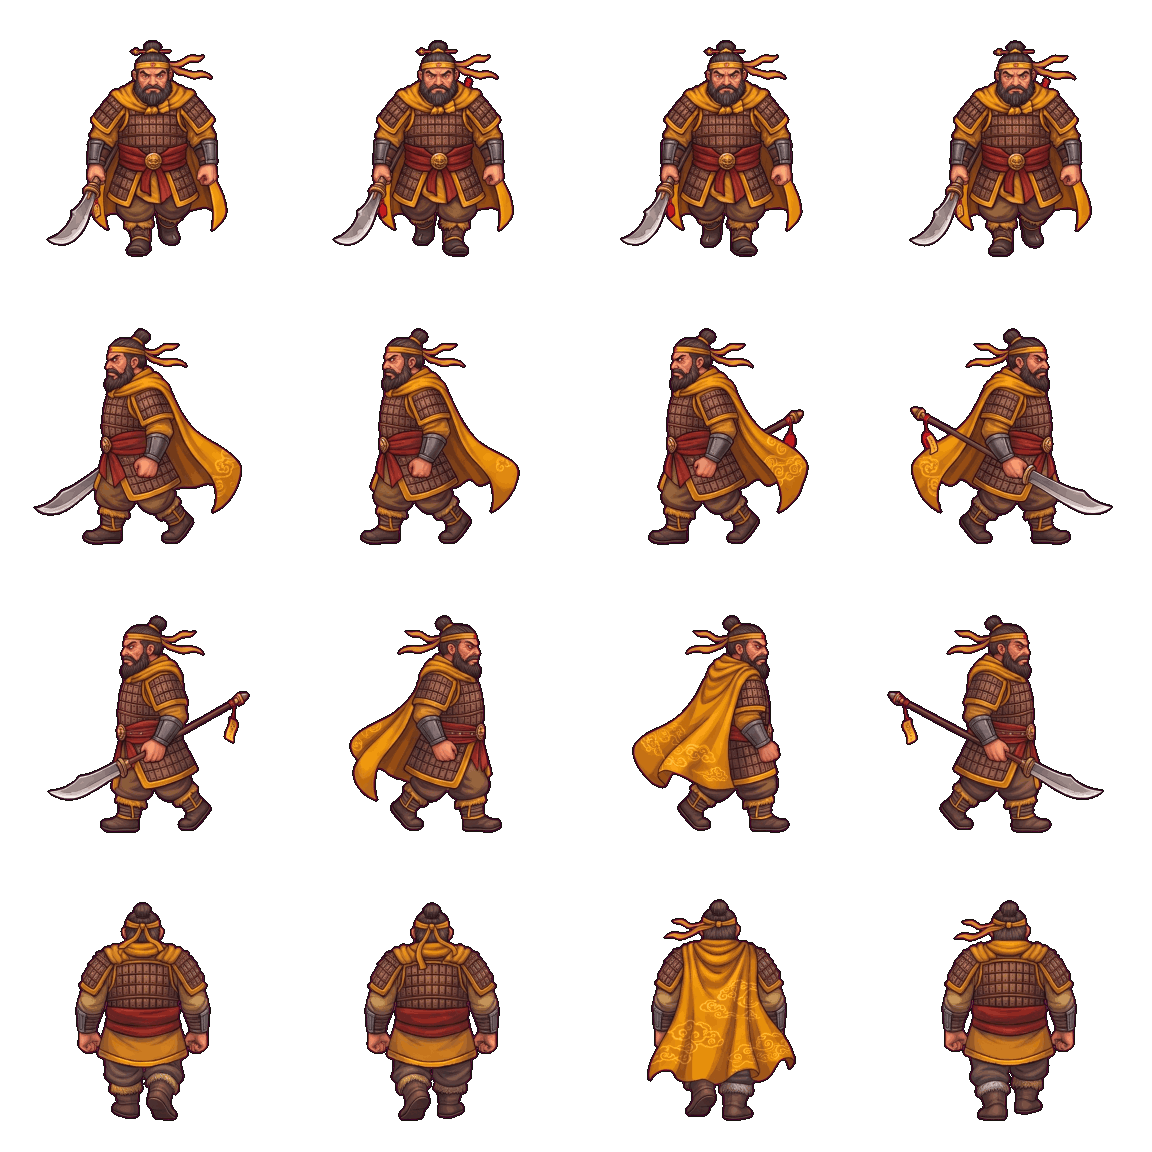
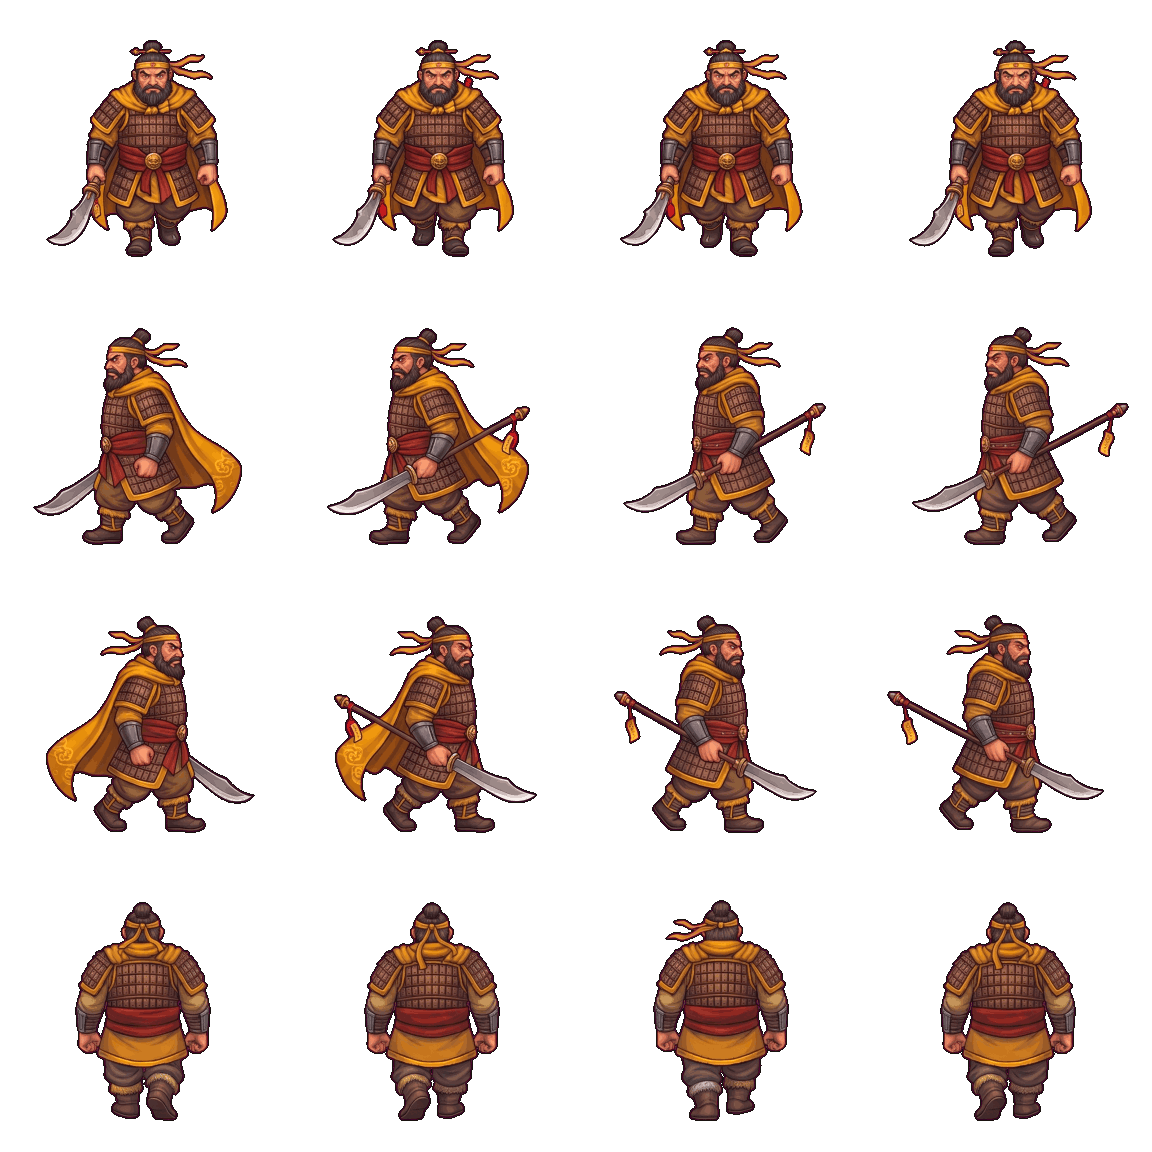
1-1 张梁：行走表左右行逐帧朝向乱翻 / 兵器时有时无 → 重排成一致的持刀走姿；冲锋不再定格平移；出招帧与命中对上
用户 11-19「张梁移动和动作有问题」。慢放实测（tools/gif-zhangliang.mjs）：
- 行走表（Gemini 086accd）左行第 4 帧朝右、右行第 1 帧朝左，中间两帧空手——侧走时每步转身、刀一闪一闪。
  现用表里四张持刀侧身帧（左 0、右 0 + 左 3 / 右 3 镜像）重排：左行 [左0, 镜像左3, 右0, 镜像右3]，右行为其镜像；背面行第 3 帧（唯一披风全展）换掉。
  原图留 originals/yellow_zhangliang_walk_sideflip_old.png；侧面行最好再请美术重画一版。
- 人公冲阵：冲锋一帧 ~9px 被通用步态当成击退，整段 560ms 定格平移（最长 34 帧不换帧）。'walk' 画面首领冲锋时自己出奔跑帧（Enemy.driveRun，按跑过的距离，每 40px 一帧）+ externalWalk；冲完交回。改后最长 4 帧。
- 出招：原来起手一开始就把攻击图 4 帧播完（5488–5821ms），命中在 6088ms 已回到走路帧。现在起手持起手帧，最后 360ms 播 起手 → 挥 → 刺 → 收，命中时刚好挥到第三帧（4562–5262ms，命中 5162ms）；冲锋在起冲时收招接奔跑。
- 攻击图（ChatGPT 335ae7e）四个方向行都对；行走 / 攻击换贴图身高差 ≤5px（含起手下蹲），脚底一致。BossPace 放大的步子已计进步频（b4ca22b）。
- 对比短片 assets/review/zhangliang-motion/zhangliang-before-after.gif（上改前、下改后）。test-boss-moves ONLY=zhangliang 11/11。

diff --git a/src/systems/BossMoveset.ts b/src/systems/BossMoveset.ts
@@ -23,6 +23,9 @@ interface Hazard { id: string; shape: Shape; from: number; at: number; dmg: numb
  *  - 骑马首领：一阶段 BossMount 画马、骑者上半身；半血发 boss-phase（dismount）→ 坠马、换二阶段步战招式。
  *  - 阶段切换统一走 emitBossPhase（顿帧 / 慢动作由武将会话接这个事件，这里不做）。
  */
+/** 'walk' 画面（第一章首领：行走 / 攻击两张 4×4 表）的出招对位：命中后多留 hitLeadMs 收招；冲锋奔跑每 dashStride 像素换一帧。 */
+export const MOVESET_WALK = { hitLeadMs: 120, dashStride: 40 } as const;
+
 export class BossMoveset extends ArcBossV2<string> {
   phase: 1 | 2 = 1;
   private cds = new Map<string, number>(); private hazards: Hazard[] = []; private seq = 0; private order = 0;
@@ -75,6 +78,7 @@ export class BossMoveset extends ArcBossV2<string> {
     b.sprite.setAlpha(now < this.hideUntil ? .12 : 1);
     if (this.kit.inShift) { this.pose(25, now); return; }
     if (this.dash) { this.updateDash(dt, now); return; }
+    if (this.mode === 'walk' && b.externalWalk) b.externalWalk = false; // 冲锋结束（或被打断）：步态交回通用走路
     if (this.ride) { this.updateRide(now); return; }
     const B = this.beat, p = this.h.player;
     if (B.phase === 'idle') {
@@ -100,8 +104,9 @@ export class BossMoveset extends ArcBossV2<string> {
     const windup = m.windupMs * (o.warnMul ?? 1);
     this.h.banner(m.name);
     this.h.sfx(m.kind === 'summon' || m.kind === 'flags' ? 'bossSummon' : 'chargeWarn');
-    if (this.mode === 'walk') b.startAttack(now, Math.abs(Math.cos(a)) > .7 ? (Math.cos(a) < 0 ? 'left' : 'right') : Math.sin(a) < 0 ? 'up' : 'down');
     const at = now + windup;
+    // 'walk' 画面（第一章首领）：攻击图起手时持起手帧，最后 360ms 播 起手 → 挥 → 刺 → 收，刚好在命中（at）时挥到第三帧；冲锋在起冲那一刻收招、接奔跑帧
+    if (this.mode === 'walk') { b.startAttack(now, Math.abs(Math.cos(a)) > .7 ? (Math.cos(a) < 0 ? 'left' : 'right') : Math.sin(a) < 0 ? 'up' : 'down'); b.attackUntil = m.kind === 'charge' ? at : at + MOVESET_WALK.hitLeadMs; }
     switch (m.kind) {
       case 'charge': {
         this.add({ kind: 'lane', x: b.x, y: b.y, angle: a, len: m.len, width: m.width }, now, at, 0, true);
@@ -160,6 +165,8 @@ export class BossMoveset extends ArcBossV2<string> {
   private updateDash(dt: number, now: number): void {
     const d = this.dash!, b = this.h.boss, p = this.h.player, m = this.cur as Extract<MoveDef, { kind: 'charge' }>;
     const sp = d.len / d.ms * 1000; b.sprite.x += d.ax * sp * dt; b.sprite.y += d.ay * sp * dt;
+    // 'walk' 画面：冲锋时自己出奔跑帧（按跑过的距离），否则一帧十来像素被通用步态当成击退、整段定格平移
+    if (this.mode === 'walk') { b.externalWalk = true; b.attackUntil = 0; b.driveRun(d.ax * sp * dt, d.ay * sp * dt, MOVESET_WALK.dashStride); }
     this.state = 'attack'; this.pose((Math.abs(d.ax) > Math.abs(d.ay) ? (d.ax < 0 ? 1 : 2) : d.ay < 0 ? 3 : 0) * 4 + Math.floor(now / 70) % 4, now);
     if (!d.hitPlayer && p.alive && Math.hypot(p.x - b.x, p.y - b.y) < 44 + p.radius) { d.hitPlayer = true; p.takeDamage(b.def.damage * m.dmg * this.dmgMul, now); this.metrics.playerHits++; }
     // 冲过部曲：每名士兵每次冲锋判定一次（Legion.hurtByCharge：约半管血、按当前时间结算、不吃士兵自身受击间隔；「一次冲锋最多打死 3 个」按冲锋起点算），并往冲锋道两侧推开一点

diff --git a/src/entities/Enemy.ts b/src/entities/Enemy.ts
@@ -380,6 +380,15 @@ export class Enemy {
     this.appliedFrame = '';
   }
 
+  /** 专属控制器推着冲锋 / 快跑时出走路帧（帧按跑过的距离推进、朝向随跑向）；配合 externalWalk（通用步态别再改帧）。11-19「张梁移动和动作有问题」：冲锋整段定格平移。 */
+  driveRun(dx: number, dy: number, stride: number): void {
+    if (!this.walkSheet) return;
+    const m = Math.hypot(dx, dy); if (m < .01) return;
+    this.direction = Math.abs(dx) > Math.abs(dy) ? (dx < 0 ? 'left' : 'right') : dy < 0 ? 'up' : 'down';
+    this.walkDistance += m; this.walking = true;
+    const tex = visualTextureKey(this.scene, this.walkSheet), key = `${this.direction}_${Math.floor(this.walkDistance / stride) % 4}`;
+    if (key !== this.appliedFrame || this.sprite.texture.key !== tex) { this.applyFrame(tex, key); this.appliedFrame = key; }
+  }
   updateWalk(dt: number, dx: number, dy: number): void {
     if (!this.walkSheet) return;
     if (this.attackUntil > 0 || this.chargeState !== 'none' || this.poseUntil > ((this.scene as Phaser.Scene & { combatNow?: number }).combatNow ?? 0)) return;
